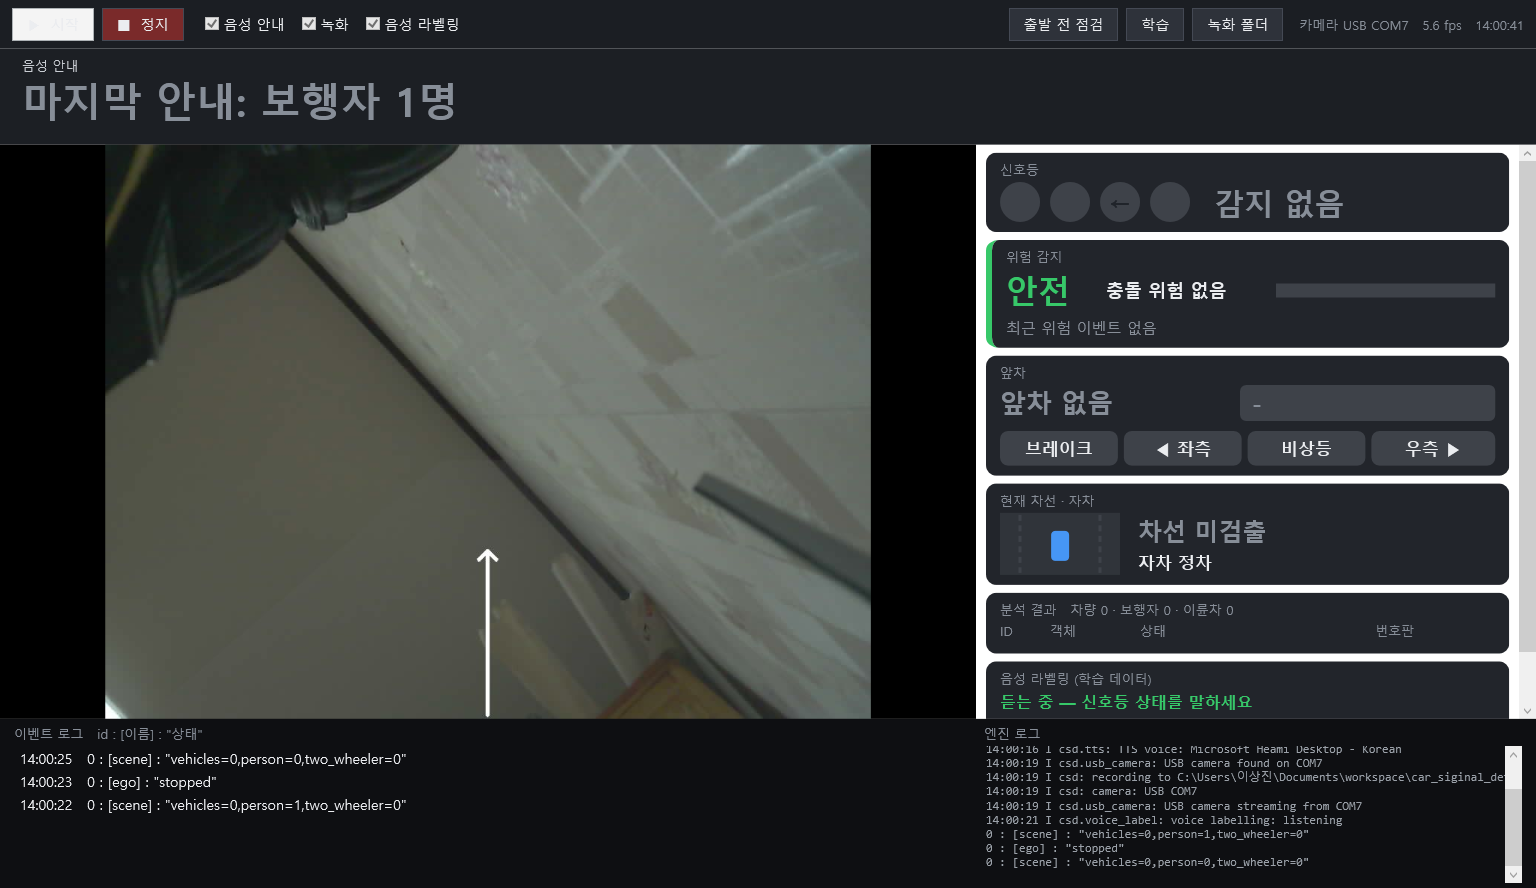
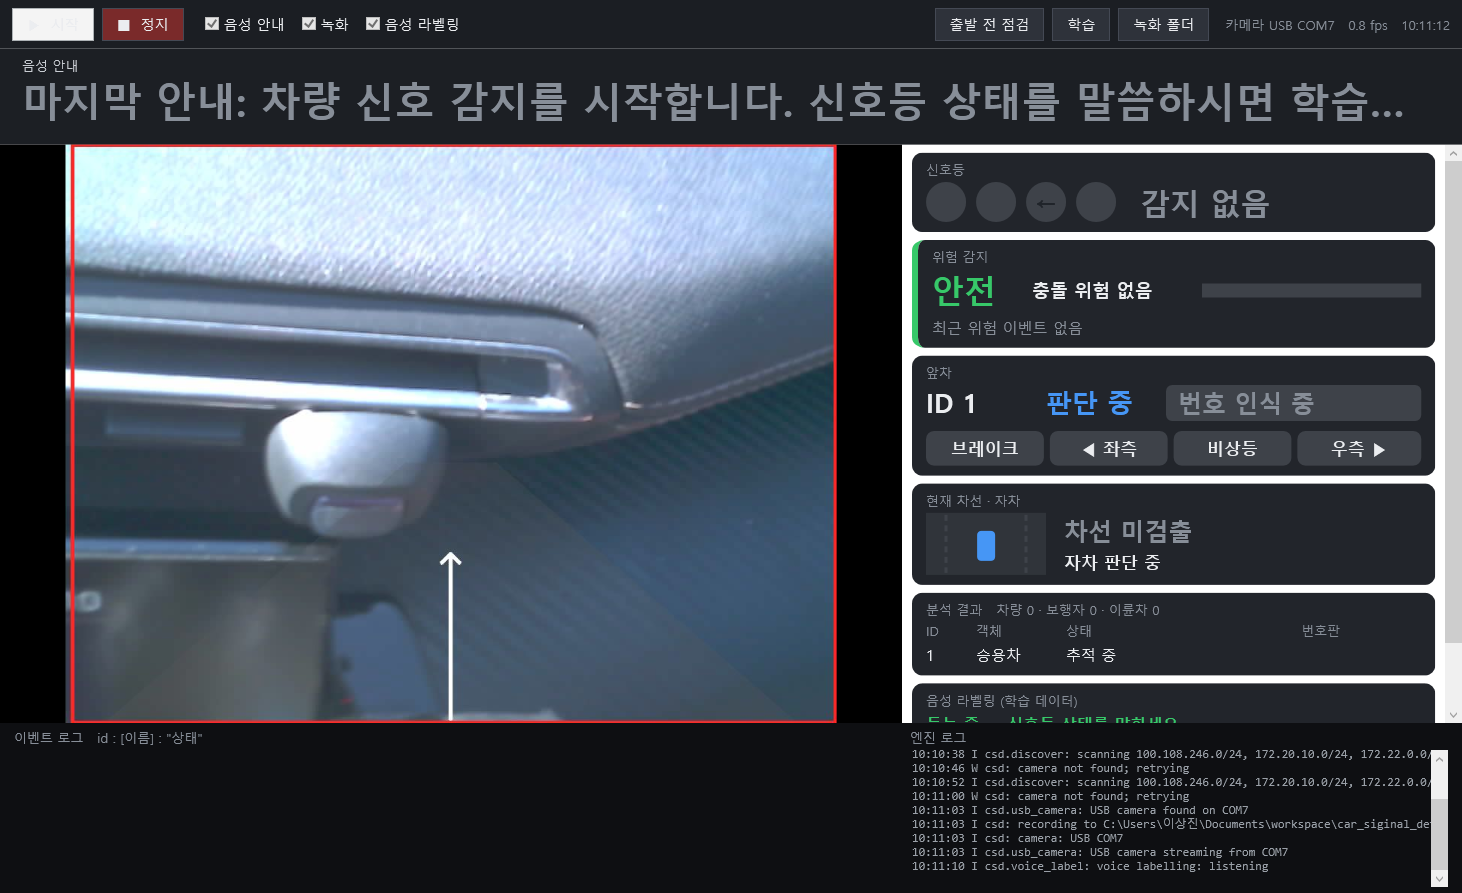
Windows app and OpenCV monitor at 100% (1:1 pixels) regardless of display scaling
- WPF: scale transform cancels Windows scaling, window fitted to the work area,
  --ui-scale override, snapshot rendered at monitor DPI.
- OpenCV monitor: per-monitor DPI aware, window shrunk to fit the screen.
- Engine: quiet about aborted client connections; app HTTP timeout 5 s.
- Camera discovery: when the USB port is present, retry USB quickly instead of
  scanning Wi-Fi subnets.

diff --git a/windows_app/CsdApp/MainWindow.xaml b/windows_app/CsdApp/MainWindow.xaml
@@ -4,7 +4,7 @@
         Title="운전 상황 모니터 — car_siginal_detector"
         Width="1480" Height="940" MinWidth="1100" MinHeight="700"
         Background="{StaticResource Bg}" FontFamily="Malgun Gothic"
-        WindowStartupLocation="CenterScreen" Closing="Window_Closing" KeyDown="Window_KeyDown">
+        WindowStartupLocation="Manual" Closing="Window_Closing" KeyDown="Window_KeyDown">
     <Border x:Name="DangerBorder" BorderThickness="0" BorderBrush="#FF2020">
         <Grid>
             <Grid.RowDefinitions>

diff --git a/windows_app/CsdApp/MainWindow.xaml.cs b/windows_app/CsdApp/MainWindow.xaml.cs
@@ -55,6 +55,43 @@ public partial class MainWindow : Window
         _timer.Start();
         AppendLog($"[앱] 프로젝트: {root}");
         Loaded += (_, _) => ApplyCommandLine();
+        SourceInitialized += (_, _) => ApplyUiScale();
+    }
+
+    // ------------------------------------------------------------------ 100% scale
+    // Windows display scaling (e.g. 125 %) would make this 1480x940 layout 1850x1175 physical
+    // pixels, taller than a 1920x1200 laptop screen. The UI is drawn at a fixed ratio of physical
+    // pixels instead: 1.0 = 100 % (default), override with --ui-scale (e.g. 1.25).
+    private const double DesignWidth = 1480, DesignHeight = 940;
+    private double _uiFactor = 1.0;
+
+    private double UiScaleArg()
+    {
+        var args = Environment.GetCommandLineArgs();
+        var i = Array.IndexOf(args, "--ui-scale");
+        return i >= 0 && i + 1 < args.Length && double.TryParse(args[i + 1],
+            System.Globalization.NumberStyles.Float, System.Globalization.CultureInfo.InvariantCulture, out var v) && v > 0.3
+            ? v : 1.0;
+    }
+
+    private void ApplyUiScale()
+    {
+        var dpi = VisualTreeHelper.GetDpi(this).DpiScaleX;   // 1.25 at 125 %
+        var factor = _uiFactor = UiScaleArg() / dpi;         // DIP -> physical ratio wanted
+        DangerBorder.LayoutTransform = new ScaleTransform(factor, factor);
+        var work = SystemParameters.WorkArea;                // in DIPs
+        Width = Math.Min(DesignWidth * factor, work.Width);
+        Height = Math.Min(DesignHeight * factor, work.Height);
+        MinWidth = Math.Min(1100 * factor, work.Width);
+        MinHeight = Math.Min(700 * factor, work.Height);
+        Left = work.Left + (work.Width - Width) / 2;
+        Top = work.Top + (work.Height - Height) / 2;
+    }
+
+    protected override void OnDpiChanged(DpiScale oldDpi, DpiScale newDpi)
+    {
+        base.OnDpiChanged(oldDpi, newDpi);
+        ApplyUiScale();  // moved to a monitor with a different scaling
     }
 
     /// <summary>
@@ -84,8 +121,13 @@ public partial class MainWindow : Window
 
     private void SaveSnapshot(string file)
     {
+        // The root carries the 100 % scale transform; render it at the monitor DPI so the PNG has
+        // the same physical pixels as the window (e.g. 1480x940).
         var el = (FrameworkElement)Content;
-        var rtb = new RenderTargetBitmap((int)el.ActualWidth, (int)el.ActualHeight, 96, 96, PixelFormats.Pbgra32);
+        var dpi = VisualTreeHelper.GetDpi(this);
+        int w = (int)Math.Round(el.ActualWidth * _uiFactor * dpi.DpiScaleX);
+        int h = (int)Math.Round(el.ActualHeight * _uiFactor * dpi.DpiScaleY);
+        var rtb = new RenderTargetBitmap(w, h, 96 * dpi.DpiScaleX, 96 * dpi.DpiScaleY, PixelFormats.Pbgra32);
         rtb.Render(el);
         var enc = new PngBitmapEncoder();
         enc.Frames.Add(BitmapFrame.Create(rtb));

diff --git a/csd/app.py b/csd/app.py
@@ -319,6 +319,28 @@ class Pipeline:
         self.events.close()
 
 
+def _dpi_aware_100_percent() -> None:
+    """Draw the OpenCV monitor 1:1 in physical pixels. Without this, Windows display scaling
+    (e.g. 125 %) stretches the 1440x910 monitor to 1800x1137, taller than a 1200-px screen."""
+    try:
+        import ctypes
+        ctypes.windll.shcore.SetProcessDpiAwareness(2)  # per-monitor DPI aware
+    except Exception:
+        pass
+
+
+def _fit_window(name: str) -> None:
+    """Shrink the monitor window (keeping its aspect) if it is larger than the screen."""
+    try:
+        import ctypes
+        from .dashboard import WIN_H, WIN_W
+        sw, sh = ctypes.windll.user32.GetSystemMetrics(0), ctypes.windll.user32.GetSystemMetrics(1)
+        s = min(1.0, (sw - 40) / WIN_W, (sh - 120) / WIN_H)
+        cv2.resizeWindow(name, int(WIN_W * s), int(WIN_H * s))
+    except Exception:
+        pass
+
+
 def _wait_for_camera(cfg: dict, pipe: Pipeline, stop: dict, max_seconds: float | None) -> tuple[str, str] | None:
     """Find the camera, retrying (with a spoken hint) until found, stopped or timed out.
 
@@ -326,7 +348,7 @@ def _wait_for_camera(cfg: dict, pipe: Pipeline, stop: dict, max_seconds: float |
     cable (laptop Wi-Fi stays on the internet), then Wi-Fi.
     """
     from .discover import find_camera
-    from .usb_camera import find_usb_camera
+    from .usb_camera import find_usb_camera, list_candidate_ports
 
     cam = cfg["camera"]
     transport = cam.get("transport", "auto")
@@ -336,6 +358,12 @@ def _wait_for_camera(cfg: dict, pipe: Pipeline, stop: dict, max_seconds: float |
             port = find_usb_camera()
             if port:
                 return "usb", port
+            if list_candidate_ports():
+                # The camera's USB port is present but not answering yet (camera booting, or the
+                # port still being released by the previous run): retry USB quickly instead of
+                # spending seconds on a Wi-Fi subnet scan.
+                time.sleep(1.0)
+                continue
         if transport in ("auto", "wifi"):
             base = find_camera(cam["base_url"], allow_scan=cam.get("scan_subnet", True))
             if base:
@@ -431,7 +459,9 @@ def run(cfg: dict, source: str | None = None, max_seconds: float | None = None, 
         from .dashboard import Dashboard
         dashboard = Dashboard()
         if show:
+            _dpi_aware_100_percent()
             cv2.namedWindow("car_siginal_detector", cv2.WINDOW_NORMAL)
+            _fit_window("car_siginal_detector")
             if fullscreen:
                 cv2.setWindowProperty("car_siginal_detector", cv2.WND_PROP_FULLSCREEN, cv2.WINDOW_FULLSCREEN)
 

diff --git a/csd/server.py b/csd/server.py
@@ -170,7 +170,15 @@ class EngineServer:
                 else:
                     self._send(404, b"not found", "text/plain")
 
-        self._httpd = ThreadingHTTPServer((self.host, self.port), Handler)
+        class QuietServer(ThreadingHTTPServer):
+            def handle_error(self, request, client_address):
+                # The app gave up waiting (timeout) or closed: not worth a traceback in the log.
+                import sys
+                if isinstance(sys.exc_info()[1], (ConnectionAbortedError, ConnectionResetError, BrokenPipeError)):
+                    return
+                super().handle_error(request, client_address)
+
+        self._httpd = QuietServer((self.host, self.port), Handler)
         self._httpd.daemon_threads = True
         threading.Thread(target=self._httpd.serve_forever, name="engine-http", daemon=True).start()
         log.info("engine server on http://%s:%d", self.host, self.port)

diff --git a/windows_app/CsdApp/Engine.cs b/windows_app/CsdApp/Engine.cs
@@ -14,7 +14,8 @@ namespace CsdApp;
 /// </summary>
 public sealed class Engine : IDisposable
 {
-    private readonly HttpClient _http = new() { Timeout = TimeSpan.FromSeconds(2) };
+    // Generous timeout: while the engine loads models on the CPU it can answer slowly.
+    private readonly HttpClient _http = new() { Timeout = TimeSpan.FromSeconds(5) };
     private Process? _proc;
 
     public string ProjectRoot { get; }

diff --git a/history.md b/history.md
@@ -221,3 +221,20 @@
   - **번호판: 인식 0건.**
   - **음성 라벨: 0건** (마이크 무음 문제 미해결로 추정).
 - 다음: 녹화본을 `--source`로 재생해 신호등 오판(red_yellow 등), 충돌 danger, 끼어들기 이벤트를 영상과 대조합니다(dev_plan 3.4). 번호판 0건인 원인도 확인합니다.
+
+## 13. 화면 1:1(100%) 표시, 시작 지연 개선 (2026-10-08)
+
+- 사용자 요청: "화면이 너무 커서 해상도를 100%로 적용", "1:1 비율로 나오도록".
+- 원인: Windows 배율이 125%(DPI 120)이고 모니터는 1920×1200(작업 영역 1140)입니다. 그래서 1480×940 앱 창이 1850×1175가 되어 화면을 넘었습니다.
+- **WPF 앱:** 배율을 상쇄하는 축소 변환을 넣어 실제 픽셀 1:1로 그립니다.
+  - 창 크기는 작업 영역에 맞추고 가운데에 둡니다.
+  - 배율이 다른 모니터로 옮기면 다시 계산합니다.
+  - `--ui-scale`로 배율을 지정할 수 있습니다(기본 1.0).
+  - 측정 결과 창 1480×940 실제 픽셀, 스냅샷 1462×893(창 내부 영역)입니다.
+- **OpenCV 모니터:** 프로세스를 DPI 인식 모드로 바꿔 1:1로 그리고, 화면보다 크면 비율을 유지해 줄입니다.
+- **스냅샷 결함 수정:** 배율 보정 변환을 반영하지 않아 작게 그려지고 흰 여백이 생겼습니다. 이제 모니터 DPI로 렌더링합니다.
+- **연결 오류 로그 정리:** 엔진이 CPU에서 모델을 불러오는 동안 앱 요청이 2초 제한에 걸려 `ConnectionAbortedError` 로그가 찍혔습니다.
+  - 앱의 요청 제한을 5초로 늘렸습니다.
+  - 엔진은 연결 끊김 오류를 로그에 찍지 않습니다.
+- **시작 지연 개선:** 앱을 다시 띄운 직후 USB 포트는 있는데 카메라가 약 25초간 응답하지 않았고, 그동안 매번 느린 서브넷 검색(WSL·Tailscale 대역 포함)을 돌았습니다. 이제 USB 포트가 보이면 1초 간격으로 USB만 다시 시도합니다.
+- 테스트 85개 모두 통과.
